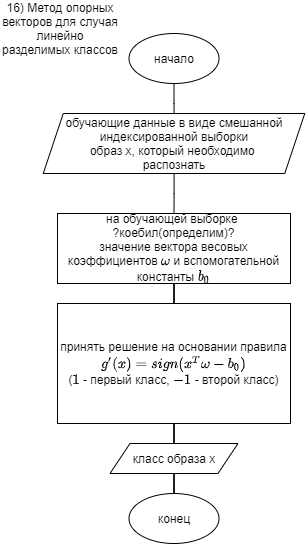
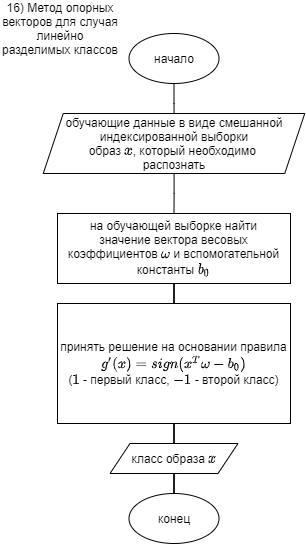
расшифрован коебил

Changed region(s): [[0.2059, 0.375, 0.9118, 0.5312], [0.2941, 0.25, 0.8529, 0.3125], [0.4412, 0.8125, 0.7059, 0.875]]

diff --git a/2021-2022/метод опорных векторов для случая линейно разделимых классов/метод опорных векторов для случая линейно разделимых классов.md b/2021-2022/метод опорных векторов для случая линейно разделимых классов/метод опорных векторов для случая линейно разделимых классов.md
@@ -24,9 +24,9 @@ $
 \end{array}
 d^{(i)}(x^{(i)T}\omega-b_0)=1
 $.  
-В каждом классе нужно ??? такие точки, чтобы между ними не лежала ни одна точка из обучающей выборки и чтобы расстояние между ними (ширина разделяющей полосы $\triangle$) было максимальным. Эти точки соответствуют опорным векторам.  
+В каждом классе нужно найти такие точки, чтобы между ними не лежала ни одна точка из обучающей выборки и чтобы расстояние между ними (ширина разделяющей полосы $\triangle$) было максимальным. Эти точки соответствуют опорным векторам.  
 $\triangle = \frac2{||\omega||}$
-Необходимо ??? 
+Необходимо найти 
 $
 \def\arraystretch{0.6}
 \begin{array}{c}
